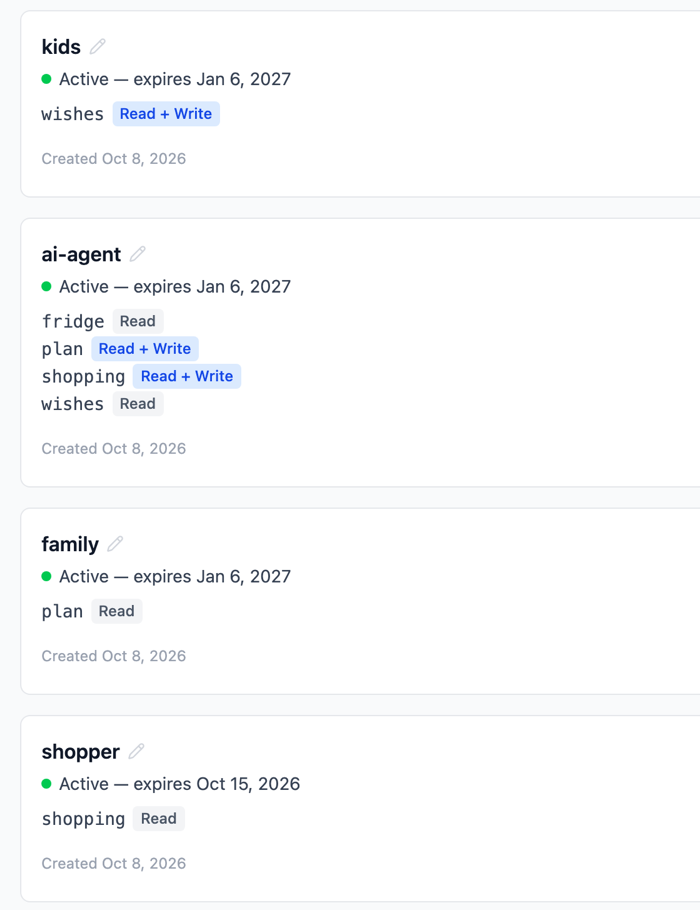
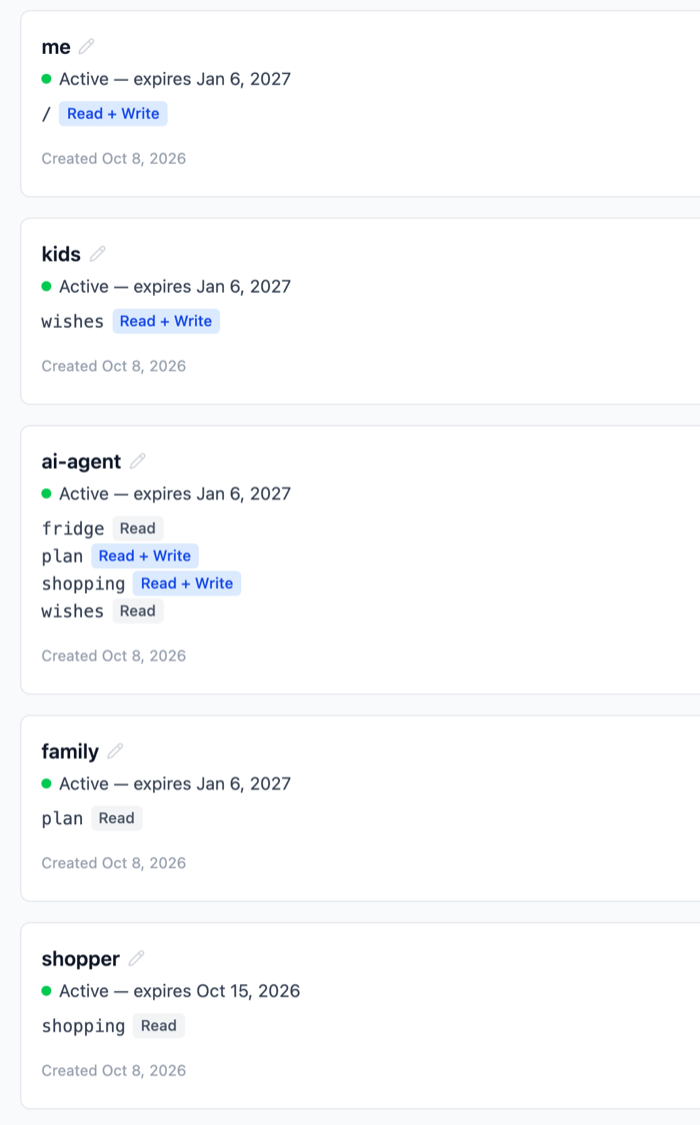
Add owner token to diagram and screenshot

Changed region(s): [[0.06, 0.2154, 0.42, 0.7692], [0.06, 0.0308, 0.42, 0.1846], [0.06, 0.8, 0.45, 0.9538]]

diff --git a/website/index.html b/website/index.html
@@ -40,7 +40,7 @@
 
         <div class="token-window">
           <div class="window-bar"><span></span><span></span><span></span><strong>API TOKENS</strong></div>
-          <img src="images/tokens.png" width="700" height="910" alt="The API tokens page: kids, ai-agent, family and shopper, each limited to its own folders">
+          <img src="images/tokens.png" width="700" height="1125" alt="The API tokens page: me with access to everything, and kids, ai-agent, family and shopper, each limited to its own folders">
         </div>
       </section>
 
@@ -59,7 +59,7 @@
         </div>
         <figure class="flow">
           <img src="images/overview.svg" width="900" height="430" alt="A folder tree: wishes, fridge, plan and shopping, each labelled with the tokens that can read or write it; bank and passport are not shared">
-          <figcaption>Each badge is one token from the list above.</figcaption>
+          <figcaption>Each badge is one token from the list above. me sits at the root, so it opens everything.</figcaption>
         </figure>
       </section>
 
